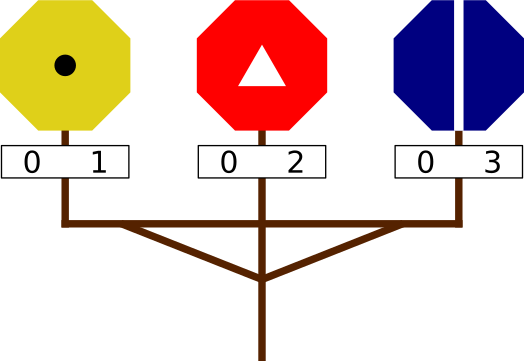
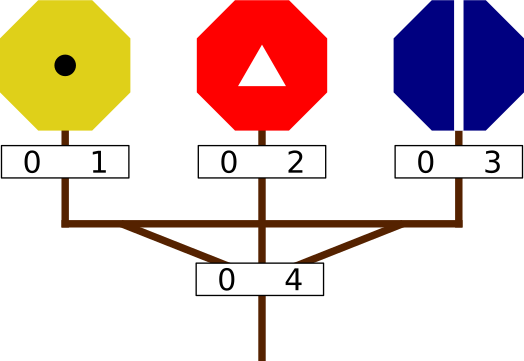
Add a manymounting legend.

Changed region(s): [[0.3664, 0.7008, 0.6412, 0.8227]]

diff --git a/Pseudo/ovecs.html b/Pseudo/ovecs.html
@@ -242,11 +242,11 @@
 <p>This kind of mounting is fairly simple and is used to indicate hierarchal relationships, such as city/state/country or individual/boss. It should be noted that the flags closer to the <em>bottom</em> are the ones that are considered more important, not the ones at the top; the reasoning here is that reading things is done starting at normal eye level and moving away from that, which in the case of flags, one starts at the one closest to eye level, which is the bottom flag. This also explains why the hard cap of six is not very restrictive; often one does not sign every hierarchical level on a flag, leaving only two or three important ones above one’s own.</p>
 <p>Since flags are allowed to specify their own pole colours, what happens when two flags specify different colours are put together? There are several solutions: the most obvious one is to select one flag that dominates over the other, in which case we choose the bottom flag, as it is in the position of honour. But one can also elect to use the neutral colour, favouring no one, or paint different sections of the pole according to the flag just above it. Different societies have different solutions, and all three mentioned here are commonly understood.</p>
 <figure>
-<img src="img/parallel-manymounting.png" alt="An example of parallel manymounting. Note that as these are documentation flags, these two configurations do not conflict with each other." /><figcaption>An example of parallel manymounting. Note that as these are documentation flags, these two configurations do not conflict with each other.</figcaption>
+<img src="img/parallel-manymounting.png" alt="An example of parallel manymounting. Note that as these are documentation flags, these two configurations do not conflict with each other. Also, the manymounting represents a union with code 04." /><figcaption>An example of parallel manymounting. Note that as these are documentation flags, these two configurations do not conflict with each other. Also, the manymounting represents a union with code 04.</figcaption>
 </figure>
 <p>The other way to do it is to mount many flags, one next to each other, but on the same (modified) pole. This is called <dfn>parallel manymounting</dfn> (E.-Pasaru: želuue̲dup̲llůinbřu) and is much more complex than serial manymounting. In parallel mounting, the pole splits into two or more at some specified point, and from there on each one can can sport any flag or flag combination.</p>
 <p>Parallel manymounting has several features that distinguishes it from its serial cousin. For instance, unlike serial manymounting there is <em>no upper bound</em> to the number of flags that can be parallel-manymounted in the same pole; one can choose to place as many flags in parallel on the same pole as one wishes, though of course limitations can occur by other means, such as available space.</p>
-<p>These flags can be very large – extreme cases can have more than thirty or forty flags mounted on the same pole, so extra support is needed for these flag assemblies. All flags are fed through a <dfn>truss</dfn> (E.-Pasaru: aķdžœ) at the lower end of their individual poles, which then joins to the <dfn>master pole</dfn> (E.-Pasaru: lelëdæn), which is the pole that finally attaches the whole lot to the ground. In order to allow further support, diagonal rods known as <dfn>struts</dfn> (E.-Pasaru: unzl̲edæn) and vertical rods known as <dfn>auxiliary poles</dfn> can be used to reïnforce the structure. Struts do not touch the ground</p>
+<p>These flags can be very large – extreme cases can have more than thirty or forty flags mounted on the same pole, so extra support is needed for these flag assemblies. All flags are fed through a <dfn>truss</dfn> (E.-Pasaru: aķdžœ) at the lower end of their individual poles, which then joins to the <dfn>master pole</dfn> (E.-Pasaru: lelëdæn), which is the pole that finally attaches the whole lot to the ground. In order to allow further support, diagonal rods known as <dfn>struts</dfn> (E.-Pasaru: unzl̲edæn) and vertical rods known as <dfn>auxiliary poles</dfn> can be used to reïnforce the structure. Struts do not touch the ground, whereas auxiliary poles do.</p>
 <p>Secondly, flags mounted in parallel have equal standing with each other. This can be overridden by having one flag be shorter than all the rest, but this is rarely done and in the end the cultural norm is that when flags are mounted in parallel, no object referred to in that assembly is more important than another. <em>If</em> however one is required, one can mount a flag in series, but make the upper “flag” a parallel manymounting.</p>
 <p>Finally, parallel mounting results in a consequence – there is a space for a legend to be placed at the base of the manymounting. This legend, which even if present is still just called a legend, is used to label the manymounting in its entirety, and usually draws its symbols from the name of the union of the objects that take part in the manymounting. This means that in some cases, unions don’t have flags of their own, just the parallel manymounting of its members.</p>
 <h1 id="making-a-flag">Making a flag</h1>

diff --git a/Pseudo/ovecs.md b/Pseudo/ovecs.md
@@ -574,8 +574,9 @@ are commonly understood.
 
 ![An example of parallel manymounting.
 Note that as these are documentation flags,
-these two configurations
-do not conflict with each other.](img/parallel-manymounting.png)
+these two configurations do not conflict with each other.
+Also, the manymounting represents a union
+with code 04.](img/parallel-manymounting.png)
 
 The other way to do it is to mount many flags, one next to each other,
 but on the same (modified) pole.
@@ -603,7 +604,7 @@ In order to allow further support,
 diagonal rods known as <dfn>struts</dfn> (E.-Pasaru: unzl̲edæn)
 and vertical rods known as <dfn>auxiliary poles</dfn>
 can be used to reïnforce the structure.
-Struts do not touch the ground 
+Struts do not touch the ground, whereas auxiliary poles do.
 
 Secondly, flags mounted in parallel have equal standing with each other.
 This can be overridden by having one flag be shorter than all the rest,
